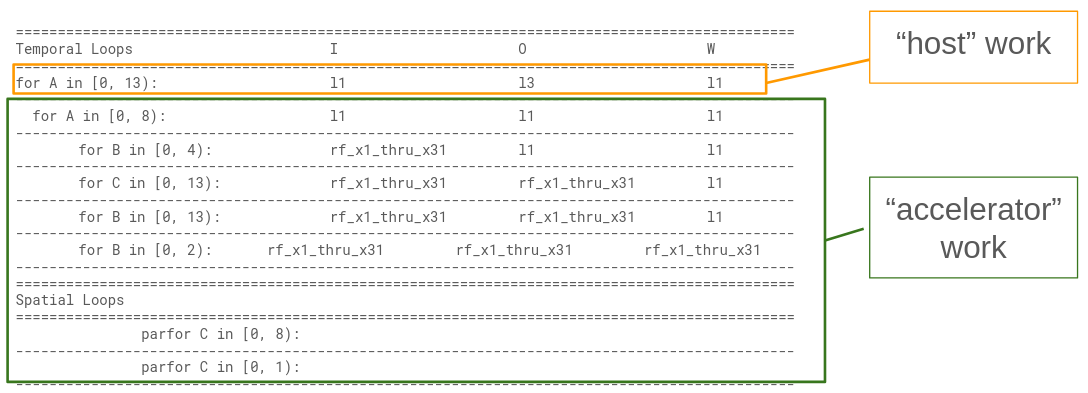
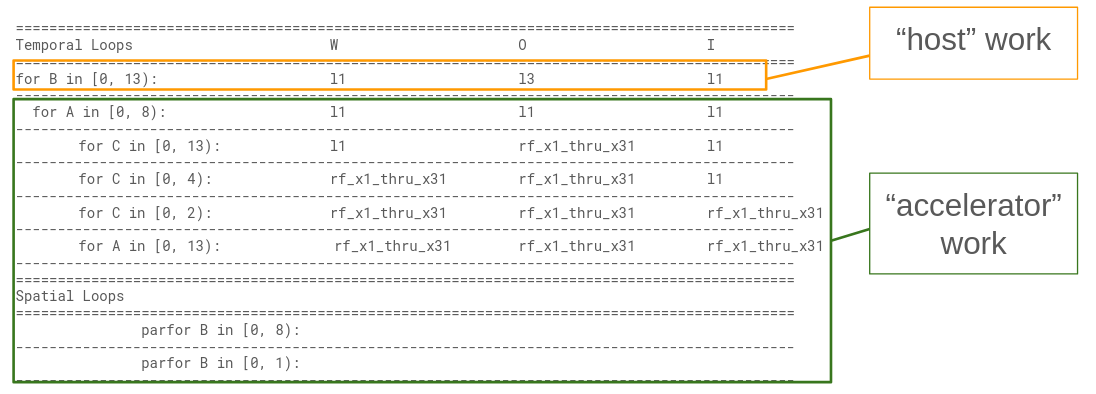
ex 12 in progress

Changed region(s): [[0.0, 0.0, 1.0, 0.9771], [0.75, 0.4275, 1.0, 0.7328]]

diff --git a/runtime/tests/tiledMatmul12/README.md b/runtime/tests/tiledMatmul12/README.md
@@ -81,15 +81,15 @@ for d2; d2 < 104; d2++;
 ```
 Loop ordering for matmul_104_104
 =============================================================================================
-Temporal Loops                      O                  I                  W                  
+Temporal Loops                      W                  O                  I                  
 =============================================================================================
-for B in [0, 13):                   l3                 l1                 l1                 
+for B in [0, 13):                   l1                 l3                 l1                 
 ---------------------------------------------------------------------------------------------
   for A in [0, 8):                  l1                 l1                 l1                 
 ---------------------------------------------------------------------------------------------
-    for C in [0, 13):               rf_x1_thru_x31     l1                 l1                 
+    for C in [0, 13):               l1                 rf_x1_thru_x31     l1                 
 ---------------------------------------------------------------------------------------------
-      for C in [0, 4):              rf_x1_thru_x31     l1                 rf_x1_thru_x31     
+      for C in [0, 4):              rf_x1_thru_x31     rf_x1_thru_x31     l1                 
 ---------------------------------------------------------------------------------------------
         for C in [0, 2):            rf_x1_thru_x31     rf_x1_thru_x31     rf_x1_thru_x31     
 ---------------------------------------------------------------------------------------------
@@ -102,20 +102,49 @@ Spatial Loops
 ---------------------------------------------------------------------------------------------
             parfor B in [0, 1):                                                              
 ---------------------------------------------------------------------------------------------
-
-Stall and slack per port of each memory instance:
-  rf_x1_thru_x31: {'r_port_1': 152760, 'w_port_1': 0}
-  l1: {'rw_port_1': 0}
-  l3: {'rw_port_1': 0}
-Latency: 2.965e+05
 ```
+
+![hardware](../../../zigzag-fork/pngs/host-acc-div-tiledMatmul12.png)
 
 ## III. Manual Transformation
 
 #### a. C code transformed
 
 ```
-TODO
+// loop bounds
+size_t B_S = 8;
+size_t A_0 = 8;
+size_t C_0 = 13;
+size_t C_1 = 4;
+size_t C_2 = 2;
+size_t A_1 = 13;
+
+// block sizes
+size_t b_s_bk_sz = 13;
+size_t a_0_bk_sz = 8;
+
+void dmaCore (Matrix_104x104 i, Matrix_104x104 w, Matrix_104x104 o){
+    for (size_t b_s = 0; b_s < B_S; b_s++) {
+        size_t start = b_s * b_s_bk_sz;
+        Shape shape = 104x13;
+        Matrix_104_13 i_tile = subtile(i, start, shape);
+        Matrix_104_13 w_tile = subtile(w, start, shape);
+        Matrix_104_13 o_tile = subtile(o, start, shape);
+        // copy o_tile from L3 to L1
+        Matrix_104_13 o_tile_L1;
+        copyFromL3(o_tile,o_tile_L1);
+		computeCore(i_tile, w_tile, o_tile_L1);
+		// copy o_tile from L1 back to L3
+		copyFromL1(o_tile_L1, o_tile);
+    }
+}
+
+void computeCore(Matrix_104x13 i, Matrix_104x13 w, Matrix_104x13 o){
+
+
+}
+
+
 ```
 
 #### b. MLIR transformed
@@ -126,7 +155,7 @@ TODO
 
 #### c. MLIR transformed based on L1 - L3 split ("host" vs "accelerator" divide)
 
-![hardware](../../../zigzag-fork/pngs/host-acc-div-tiledMatmul12.png)
+
 
 Host:
 
